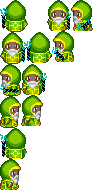
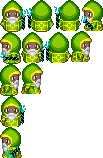
Big fixes, fixed wizard and rogue not appearing on load, update rogue addresses, etc

diff --git a/src/scenes/ChooseCharacter.tsx b/src/scenes/ChooseCharacter.tsx
@@ -57,7 +57,7 @@ async function writeUserData(character, scene) {
 
     if (!isCharacterAvailable) {
       console.error("Character is already chosen");
-      return;
+      return false;
     }
 
     // Mark the character as selected in the database
@@ -117,6 +117,7 @@ async function writeUserData(character, scene) {
       }
     });
   }
+  return true;
 }
 
 export default class ChooseCharacterScene extends Phaser.Scene {
@@ -130,7 +131,7 @@ export default class ChooseCharacterScene extends Phaser.Scene {
       "/assets/pixel-art-night-sky-background.png"
     );
 
-    this.load.spritesheet("character1", "/assets/manAlone.png", {
+    this.load.spritesheet("rogue", "/assets/manAlone.png", {
       frameWidth: 32,
       frameHeight: 32,
     });
@@ -142,7 +143,7 @@ export default class ChooseCharacterScene extends Phaser.Scene {
       frameWidth: 32,
       frameHeight: 32,
     });
-    this.load.spritesheet("wizard", "/assets/wizard-alone.png", {
+    this.load.spritesheet("wizard", "/assets/wizard.png", {
       frameWidth: 32,
       frameHeight: 32,
     });
@@ -298,43 +299,44 @@ export default class ChooseCharacterScene extends Phaser.Scene {
     });
 
     character1.on("pointerdown", async () => {
-      this.startGame();
-      if (!hasChosenCharacter) {
-        const isCharacterAvailable = await writeUserData("rogue", this);
-        char1Text.setText("Rogue (Selected)");
-        if (isCharacterAvailable) {
-          hasChosenCharacter = true;
-        }
-      }
+      this.startGame("rogue");
+      // if (!hasChosenCharacter) {
+      //   const isCharacterAvailable = await writeUserData("rogue", this);
+      //   if (isCharacterAvailable) {
+      //     char1Text.setText("Rogue (Selected)");
+      //     hasChosenCharacter = true;
+      //   }
+      // }
     });
     character2.on("pointerdown", async () => {
-      // this.startGame("barb");
-      if (!hasChosenCharacter) {
-        const isCharacterAvailable = await writeUserData("barb", this);
-        char2Text.setText("Barbarian (Selected)");
-        if (isCharacterAvailable) {
-          hasChosenCharacter = true;
-        }
-      }
+      this.startGame("barb");
+      // if (!hasChosenCharacter) {
+      //   const isCharacterAvailable = await writeUserData("barb", this);
+      //   if (isCharacterAvailable) {
+      //     char2Text.setText("Barbarian (Selected)");
+      //     hasChosenCharacter = true;
+      //   }
+      // }
     });
     character3.on("pointerdown", async () => {
-      if (!hasChosenCharacter) {
-        const isCharacterAvailable = await writeUserData("archer", this);
-        char3Text.setText("Archer (Selected)");
-        if (isCharacterAvailable) {
-          hasChosenCharacter = true;
-        }
-      }
+      this.startGame("archer");
+      // if (!hasChosenCharacter) {
+      //   const isCharacterAvailable = await writeUserData("archer", this);
+      //   if (isCharacterAvailable) {
+      //     char3Text.setText("Archer (Selected)");
+      //     hasChosenCharacter = true;
+      //   }
+      // }
     });
     character4.on("pointerdown", async () => {
-      //this.startGame("wizard");
-      if (!hasChosenCharacter) {
-        const isCharacterAvailable = await writeUserData("wizard", this);
-        char4Text.setText("Wizard (Selected)");
-        if (isCharacterAvailable) {
-          hasChosenCharacter = true;
-        }
-      }
+      this.startGame("wizard");
+      // if (!hasChosenCharacter) {
+      //   const isCharacterAvailable = await writeUserData("wizard", this);
+      //   if (isCharacterAvailable) {
+      //     char4Text.setText("Wizard (Selected)");
+      //     hasChosenCharacter = true;
+      //   }
+      // }
     });
   }
 

diff --git a/src/scenes/Preloader.tsx b/src/scenes/Preloader.tsx
@@ -19,9 +19,14 @@ export default class Preloader extends Phaser.Scene {
 
     this.load.atlas("man", "character/man.png", "character/man.json");
     this.load.atlas("slime", "character/slime.png", "character/slime.json");
-    this.load.atlas("jacked-skeleton", "enemies/jacked-skeleton.png", "enemies/jacked-skeleton.json");
+    this.load.atlas(
+      "jacked-skeleton",
+      "enemies/jacked-skeleton.png",
+      "enemies/jacked-skeleton.json"
+    );
     this.load.image("knife", "weapons/weapon_knife.png");
     this.load.image("fireball", "weapons/weapon-fireball.png");
+    // this.load.image("rogue", "")
     this.load.atlas("barb", "character/barb.png", "character/barb.json");
     this.load.atlas("archer", "character/archer.png", "character/archer.json");
     this.load.atlas("wizard", "character/wizard.png", "character/wizard.json");

diff --git a/src/scenes/Game.tsx b/src/scenes/Game.tsx
@@ -1,6 +1,5 @@
 import Phaser from "phaser";
 import { createCharacterAnims } from "../anims/CharacterAnims";
-import { createSlimeAnims } from "../anims/SlimeAnims";
 import { Slime } from "../enemies/Slime";
 import { createEnemyAnims } from "../anims/EnemyAnims";
 import { Player } from "../characters/Player";
@@ -8,7 +7,7 @@ import "../characters/Player";
 import { Skeleton } from "../enemies/Skeleton";
 import "../enemies/Skeleton";
 import { setupFirebaseAuth } from "../utils/gameOnAuth";
-import { getDatabase, ref, update, onValue } from "firebase/database";
+import { update } from "firebase/database";
 import { sceneEvents } from "../events/EventsCenter";
 import { Barb } from "../characters/Barb";
 import "../characters/Barb";

diff --git a/src/anims/EnemyAnims.ts b/src/anims/EnemyAnims.ts
@@ -1,6 +1,6 @@
 import Phaser from "phaser";
 
-const createEnemyAnims = (anims: Phaser.Animations.AnimationManager) => {
+export const createEnemyAnims = (anims: Phaser.Animations.AnimationManager) => {
   anims.create({
     key: "enemy-idle-down",
     frames: [{ key: "jacked-skeleton", frame: "enemy-walk-down-01.png" }],

diff --git a/index.html b/index.html
@@ -4,7 +4,7 @@
     <meta charset="UTF-8" />
     <link rel="icon" type="image/svg+xml" href="/vite.svg" />
     <meta name="viewport" content="width=device-width, initial-scale=1.0" />
-    <title>Shadows of Enternia</title>
+    <title>Shadows of Eternia</title>
   </head>
   <body>
     <div id="root"></div>
